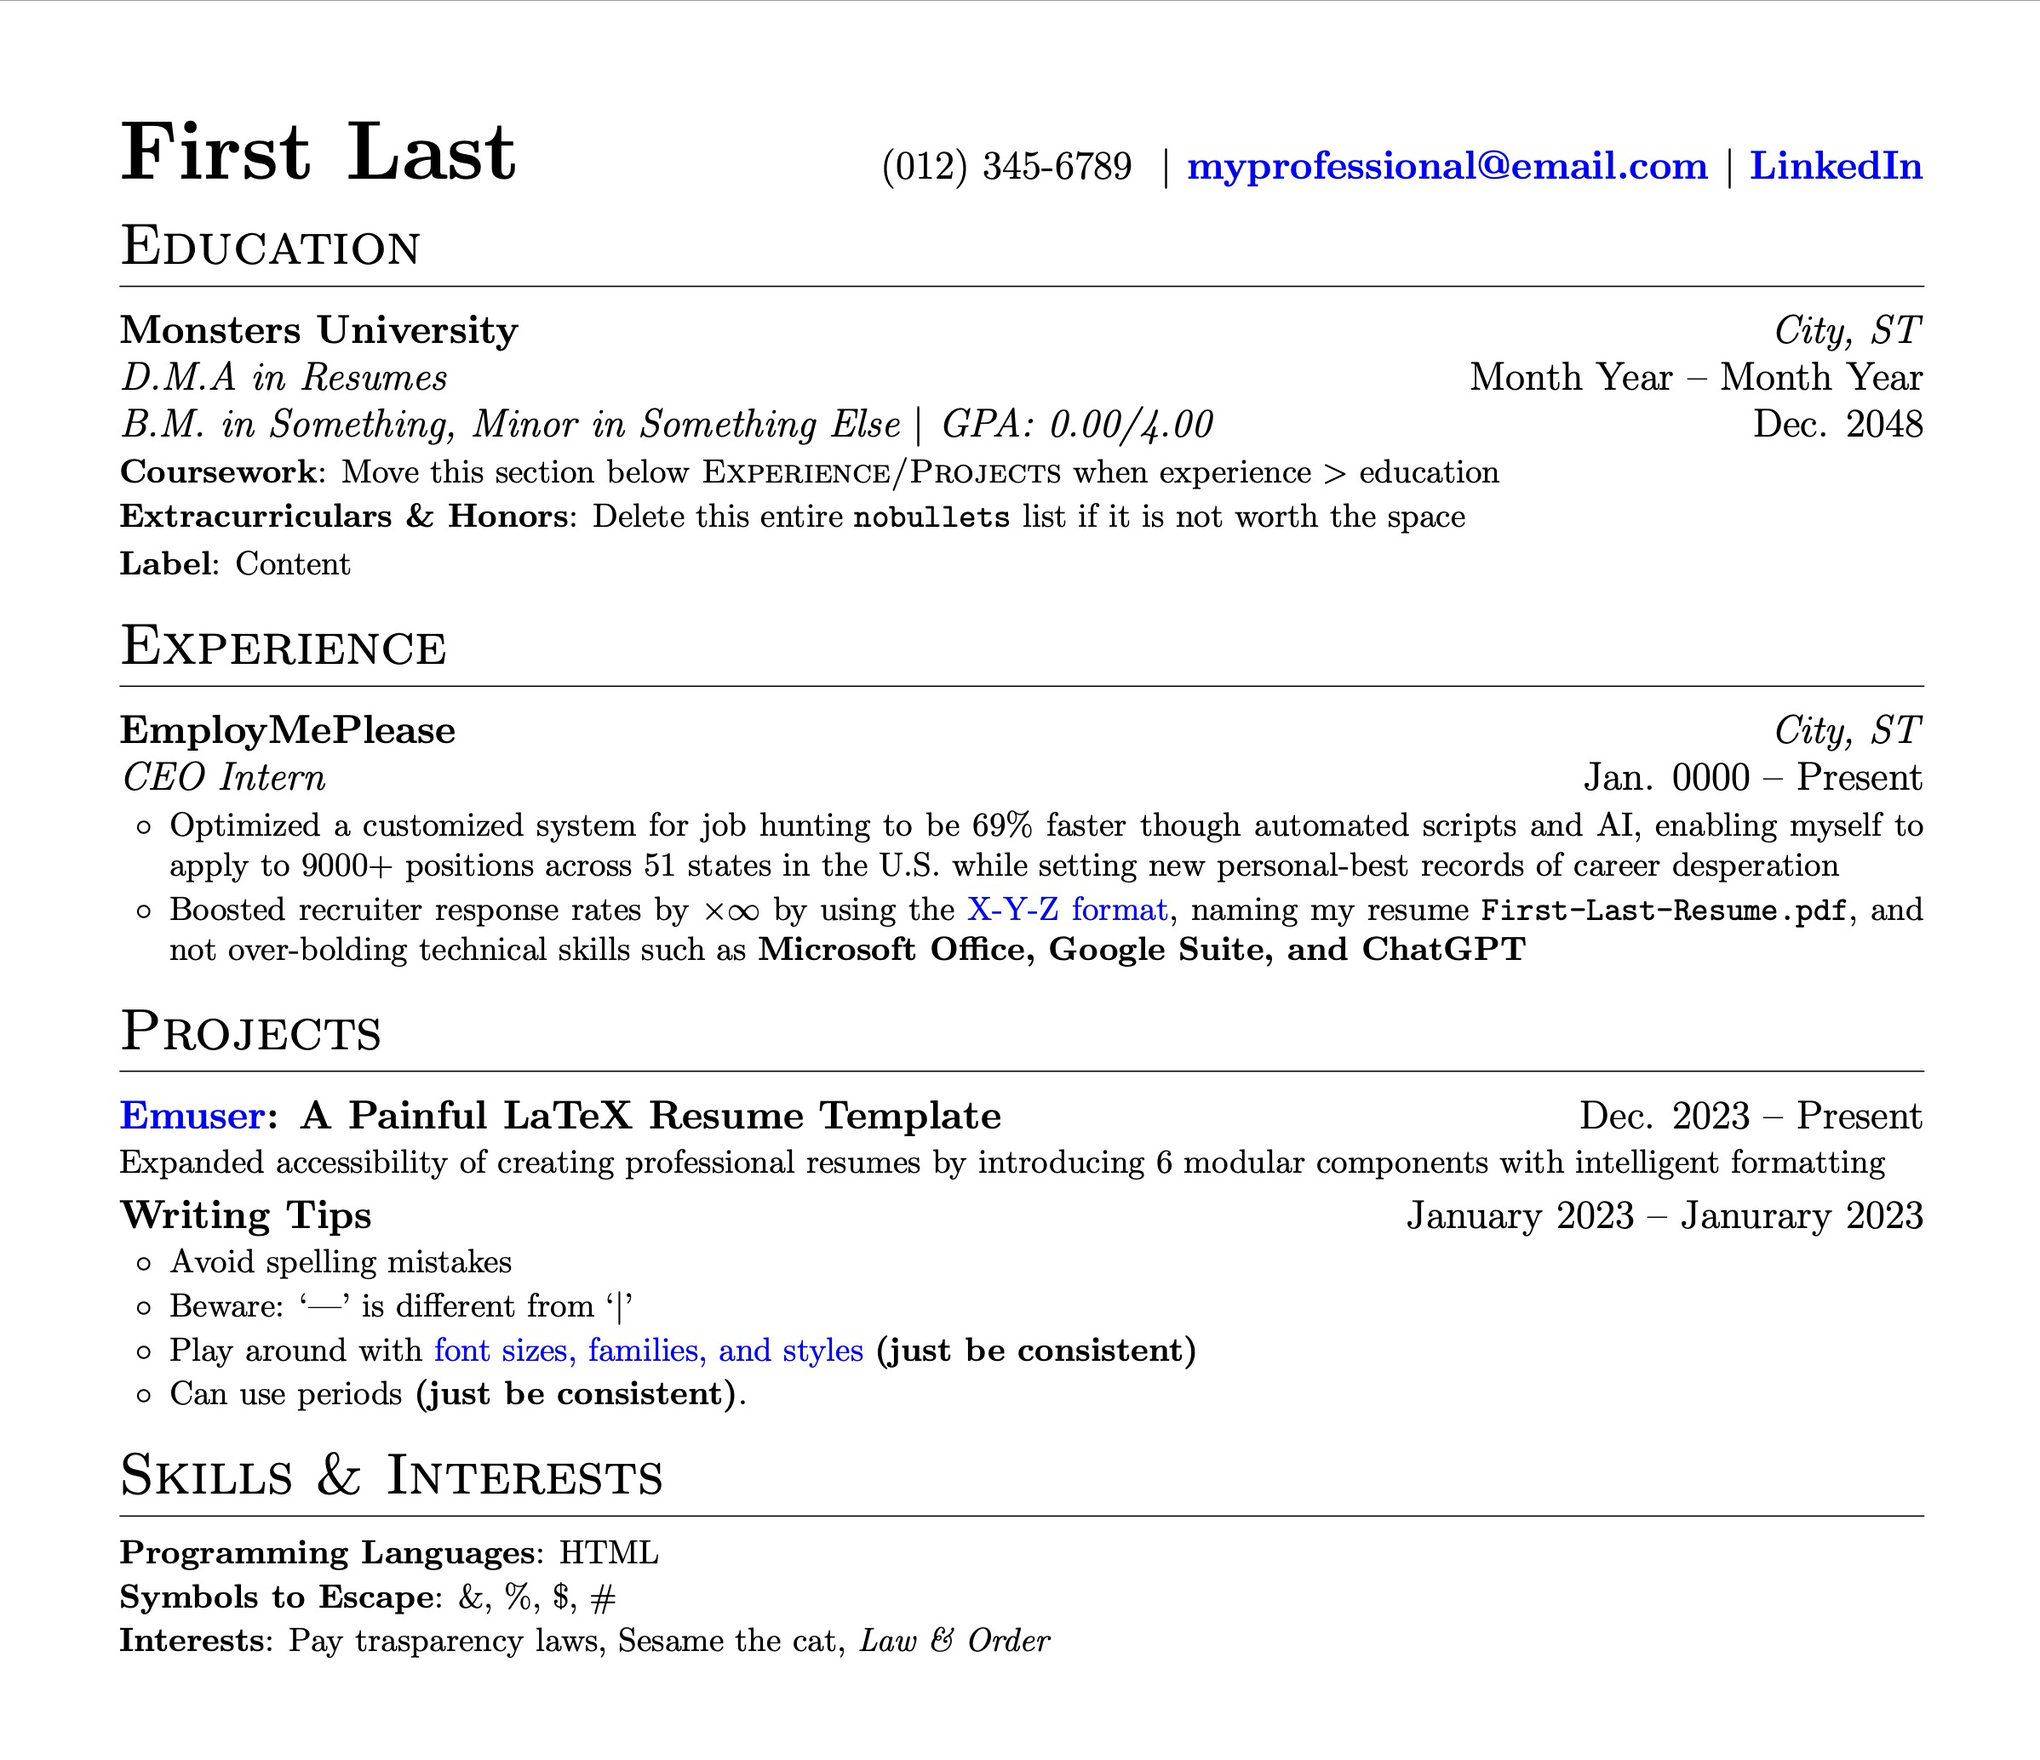
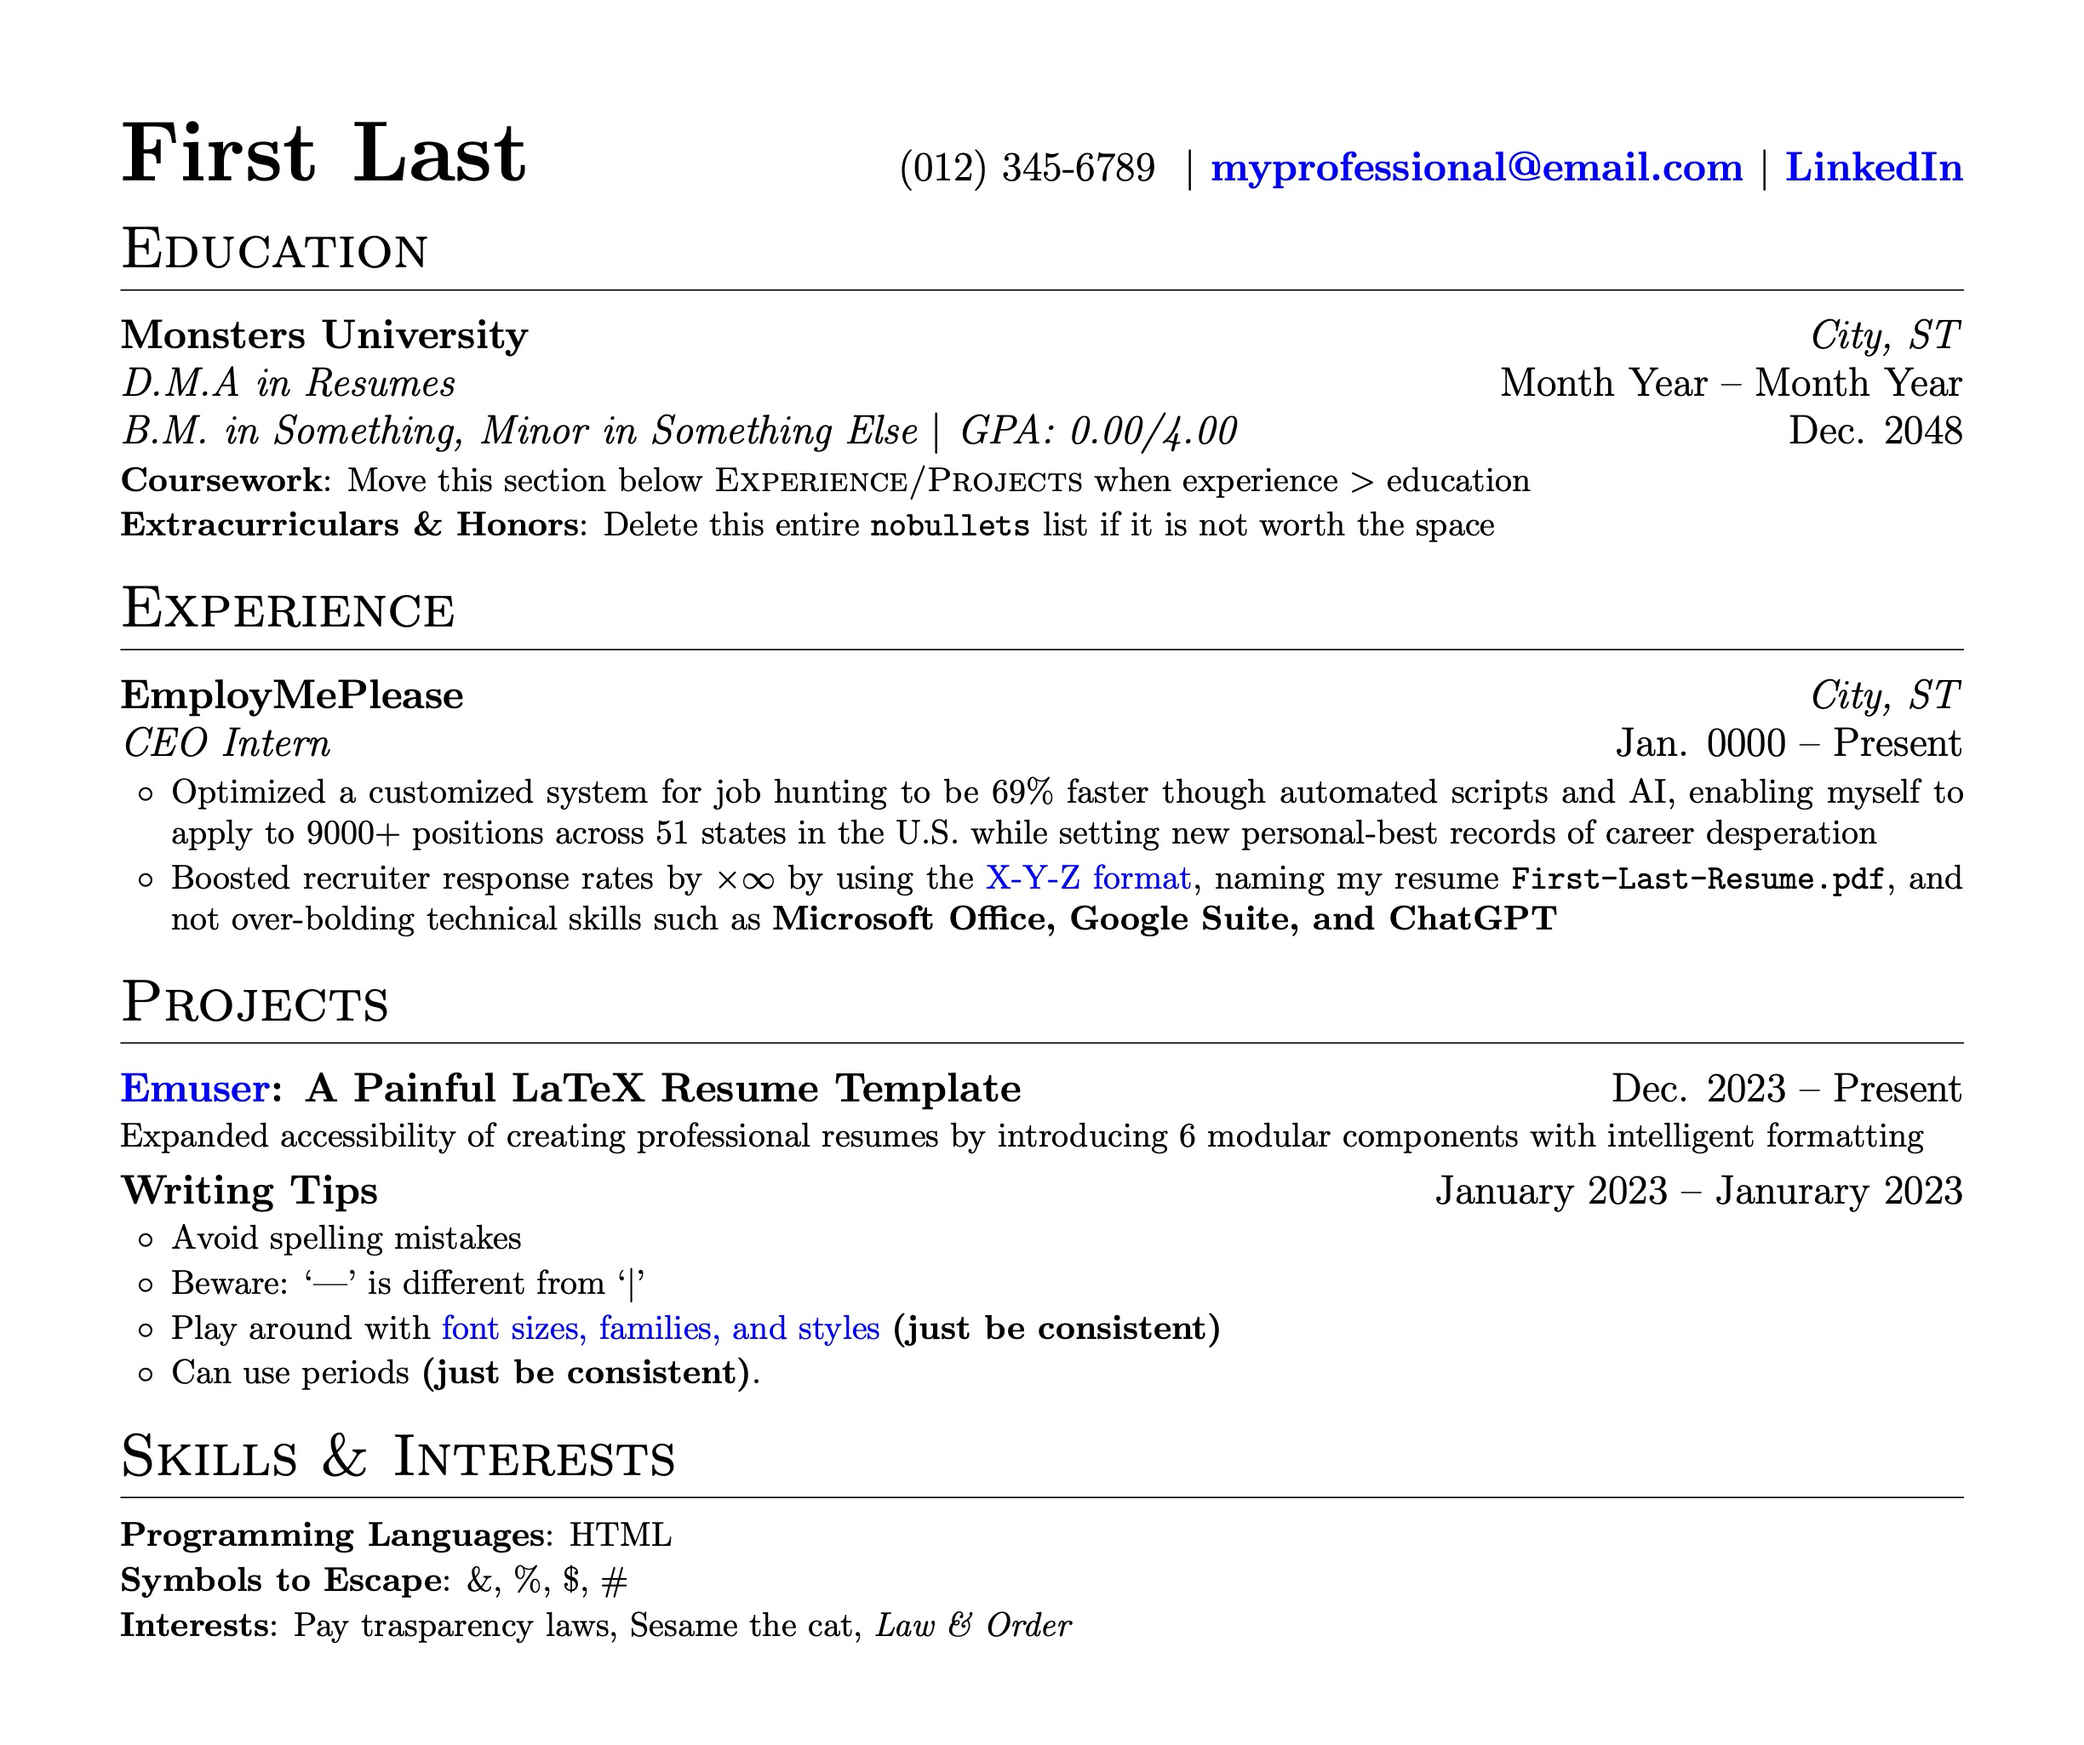
Remove labeled example in emuser

diff --git a/emuser.tex b/emuser.tex
@@ -1,11 +1,11 @@
-\documentclass[10pt]{extarticle} % {8 ... 12}pt (recommended)
+\documentclass[10pt]{extarticle} % {8 ... 12}pt
 
 \usepackage[letter, margin=0.5in]{geometry}
 \usepackage{emuserutils}
 
 \setBulletStyle{$\circ$}
-\setBulletsSpacing{0.1 \baselineskip}  % [0.1 ... 0.5] (recommended)
-\setSectionSpacing{0.4 \baselineskip}  % [0.3 ... 0.7] (recommended)
+\setBulletsSpacing{0.1 \baselineskip}  % [0.1 ... 0.5]
+\setSectionSpacing{0.4 \baselineskip}  % [0.3 ... 0.7]
 
 \begin{document}
 
@@ -27,8 +27,6 @@
         {Extracurriculars \& Honors}{Delete this entire \texttt{nobullets} list if it is not worth the space}
     \end{nobullets}
 \end{sectionList}
-
-\labeled{Label}{Content}
 
 \begin{sectionList}{Experience}
     \item \lr
